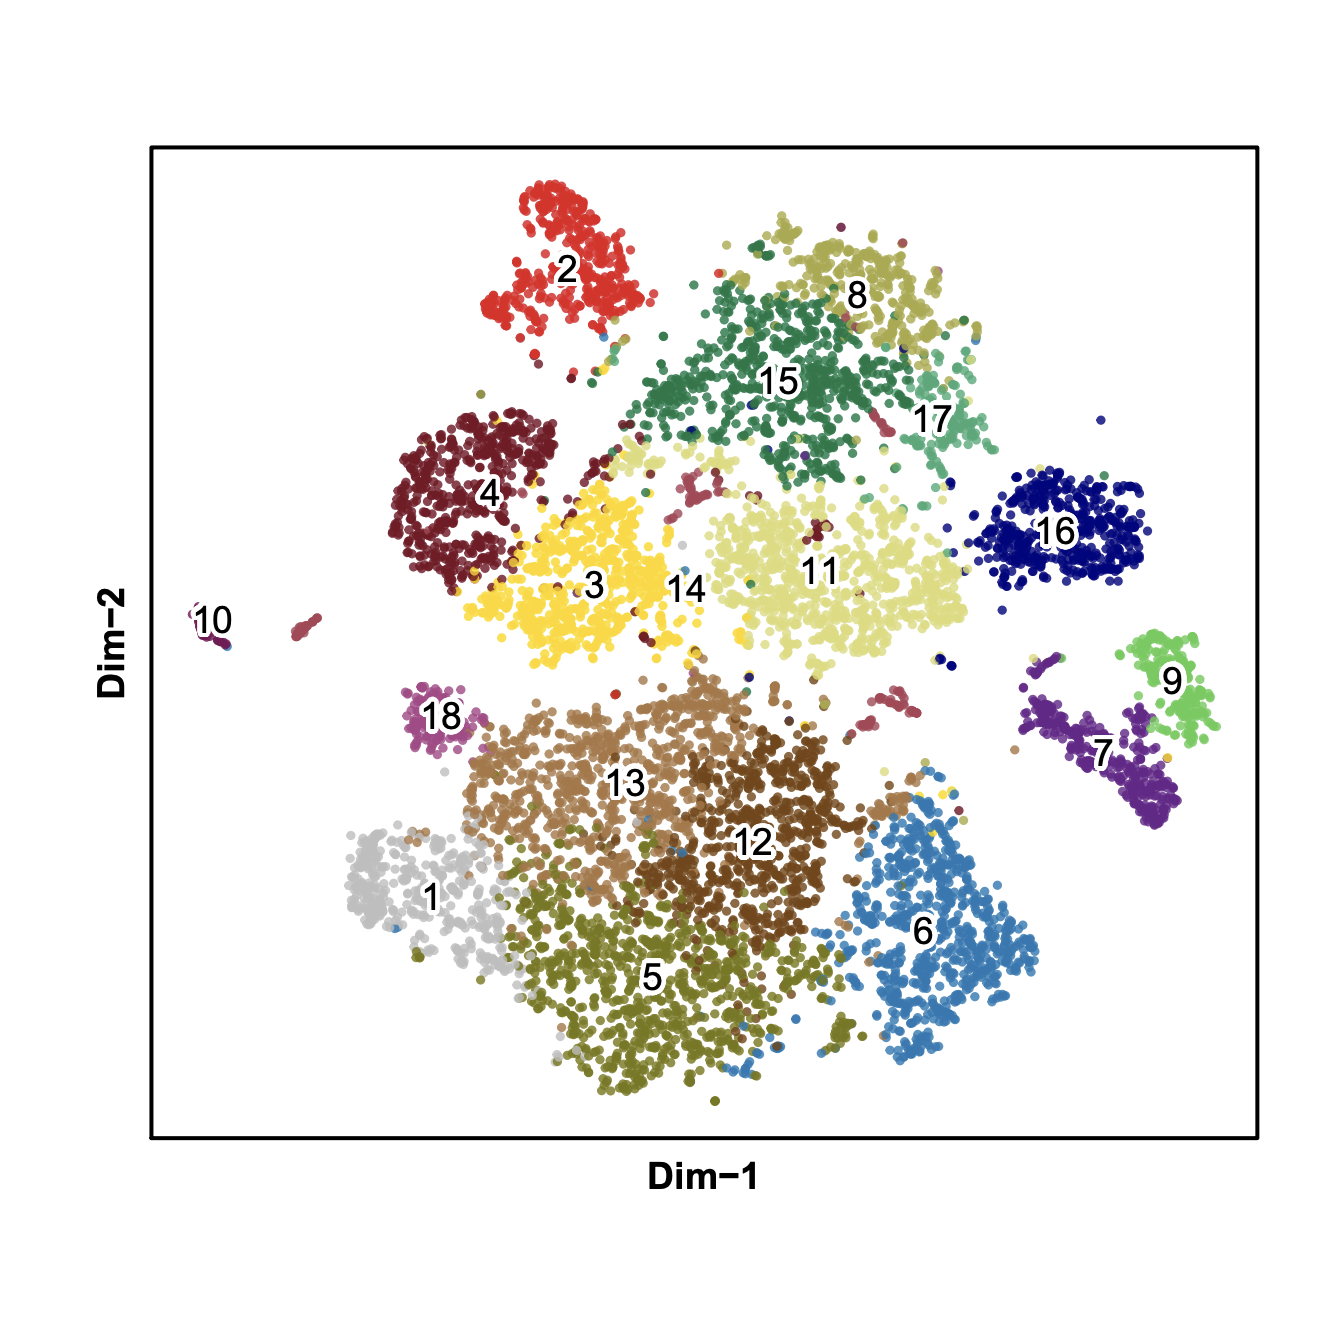
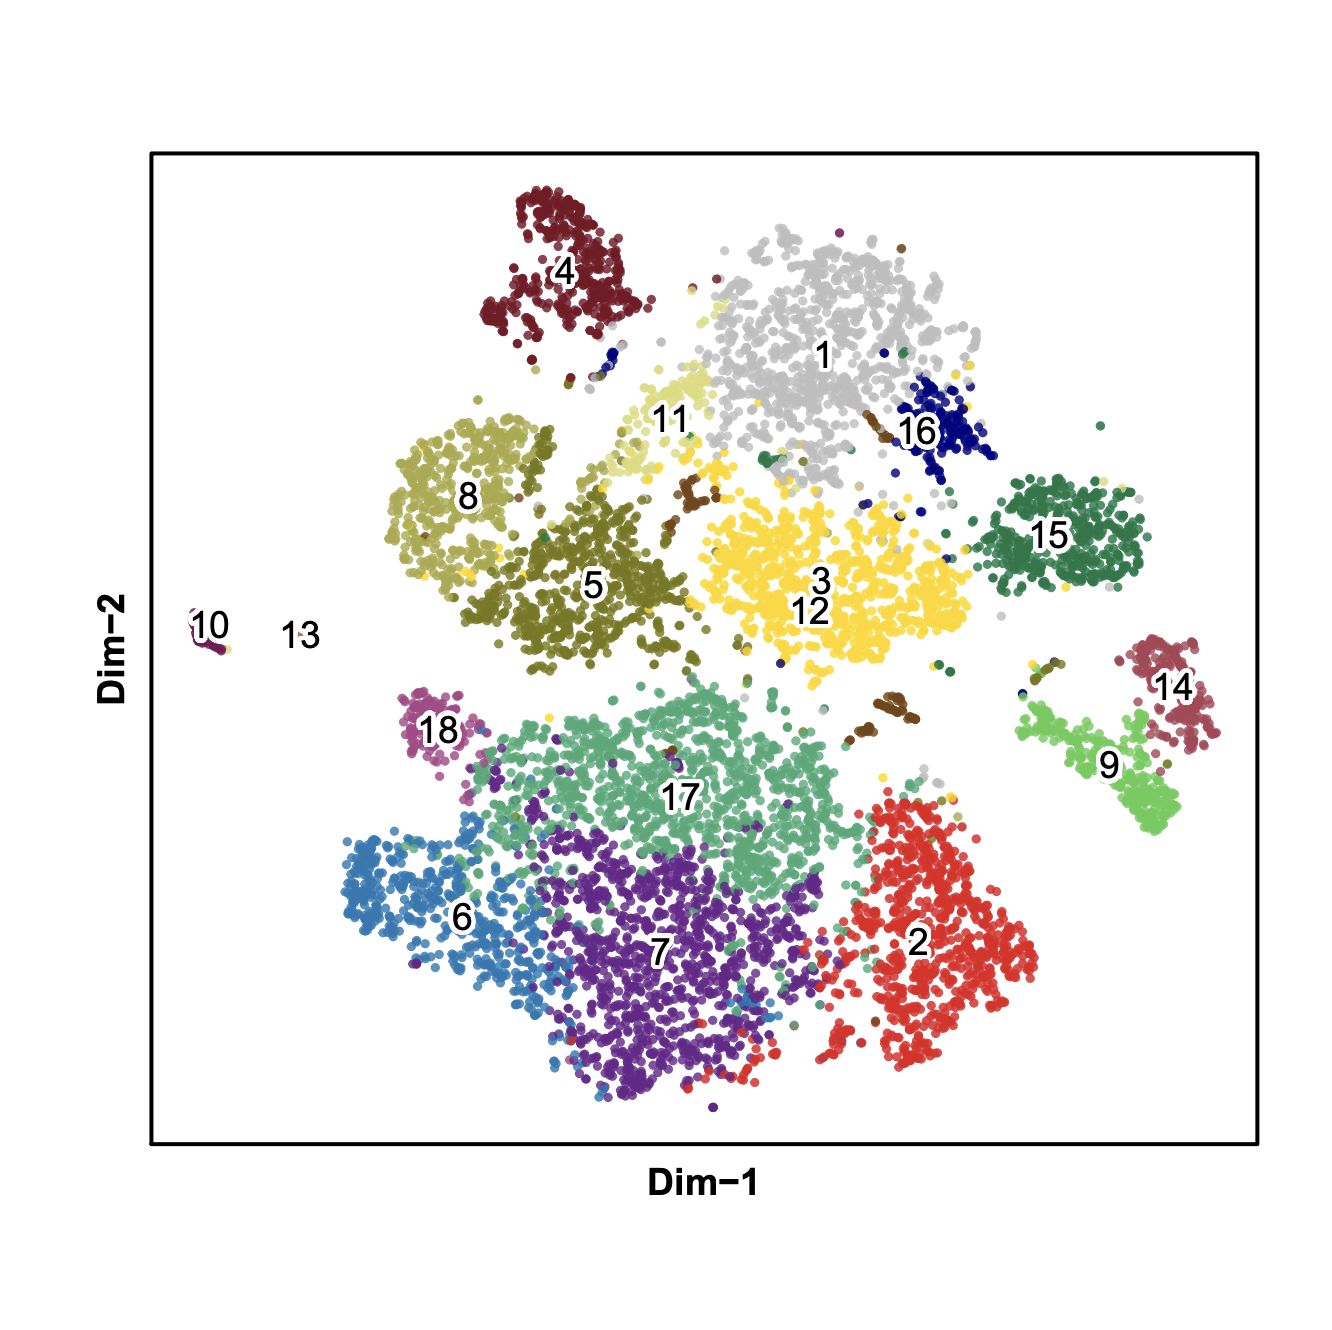
fix bugs in 10x 15k

Changed region(s): [[0.0923, 0.0925, 0.9542, 0.894], [0.0616, 0.4316, 0.1847, 0.5549], [0.2155, 0.4624, 0.2462, 0.4932]]

diff --git a/examples/10X_15k/10X_15k.md b/examples/10X_15k/10X_15k.md
@@ -147,6 +147,7 @@ We next convert the genome-wide cell-by-bin matrix into a cell-by-cell similarit
 	max.var=2000,
 	ncell.chunk=1000,
 	seed.use=10,
+	do.par=TRUE,
 	num.cores=5
 	);
 ``` 
@@ -164,6 +165,7 @@ Due to the high dropout rate, we found that the jaccard index is highly affected
 	row.scale=TRUE,
 	low.threshold=-5,
 	high.threshold=5,
+	do.par=TRUE,
 	num.cores=5,
 	seed.use=10
 	);
@@ -224,7 +226,7 @@ Using selected significant components, we next construct a K Nearest Neighbor (K
 	weight.by.sd=FALSE,
 	k=15,
 	nn.eps=0.0,
-	snn=TRUE,
+	snn=FALSE,
 	snn.prune=1/15,
 	save.knn=FALSE,
 	filename=NULL
@@ -281,7 +283,8 @@ SnapATAC allows using tSNE, UMAP and FIt-sne to visualize and explore these data
 	down.sample=10000,
 	pdf.file.name=NULL,
 	pdf.width=7, 
-	pdf.height=7
+	pdf.height=7,
+	legend.add=FALSE
 	);
 > plotViz(
 	obj=x.sp, 
@@ -421,15 +424,15 @@ Now find peaks for each cluster with more than 100 cells (at least one million f
 	obj=x.sp,
 	mat="pmat",
 	cluster.pos=2,
-	cluster.neg=NULL,
+	cluster.neg=7,
 	bcv=0.1,
-	fdr=5e-2,
-	pvalue=1e-2,
+	fdr=1e-2,
+	pvalue=1e-3,
 	test.method="exactTest",
 	seed.use=10
 	);
 > idy_C2 = which(DARs.C2$label == 1);
-> y_C2 = SnapATAC::rowSums(x.sp[,idy_C2], mat="pmat") / SnapATAC::rowSums(x.sp, mat="pmat") * 1000000;
+> y_C2 = SnapATAC::rowSums(x.sp[,idy_C2, mat="pmat"], mat="pmat") / SnapATAC::rowSums(x.sp, mat="pmat") * 1000000;
 > boxPlotFeature(
 	obj = x.sp,
 	feature = y_C2,
@@ -485,7 +488,7 @@ Now find peaks for each cluster with more than 100 cells (at least one million f
 **Step 20. Subclustering of cluster 2**.        
 
 ```R
-> idx = which(x.sp@cluster == 2);
+> idx = which(x.sp@cluster == 4);
 > x.sub.sp = x.sp[idx,];
 > x.sub.sp = addBmatToSnap(
 	obj=x.sub.sp, 
